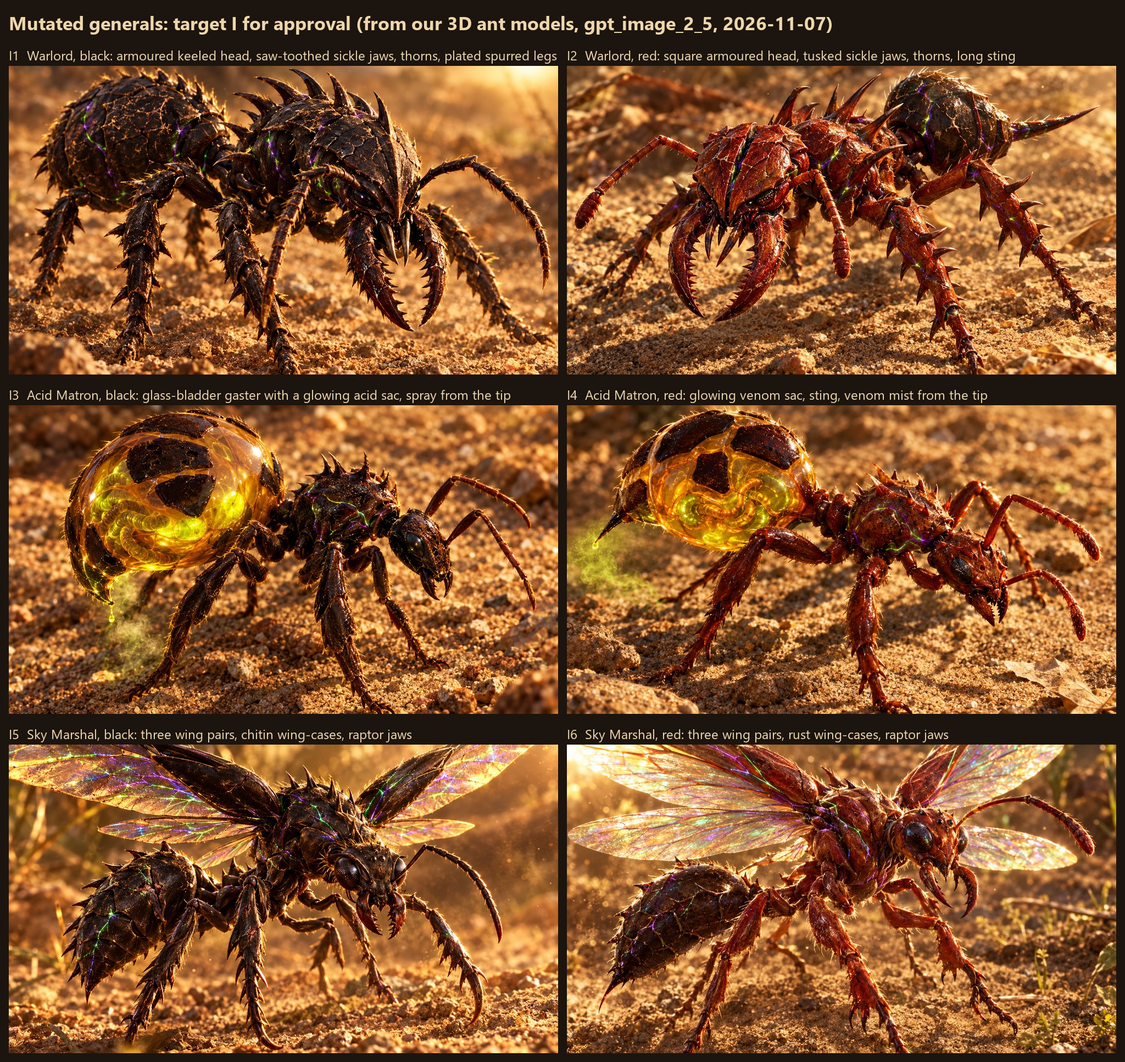
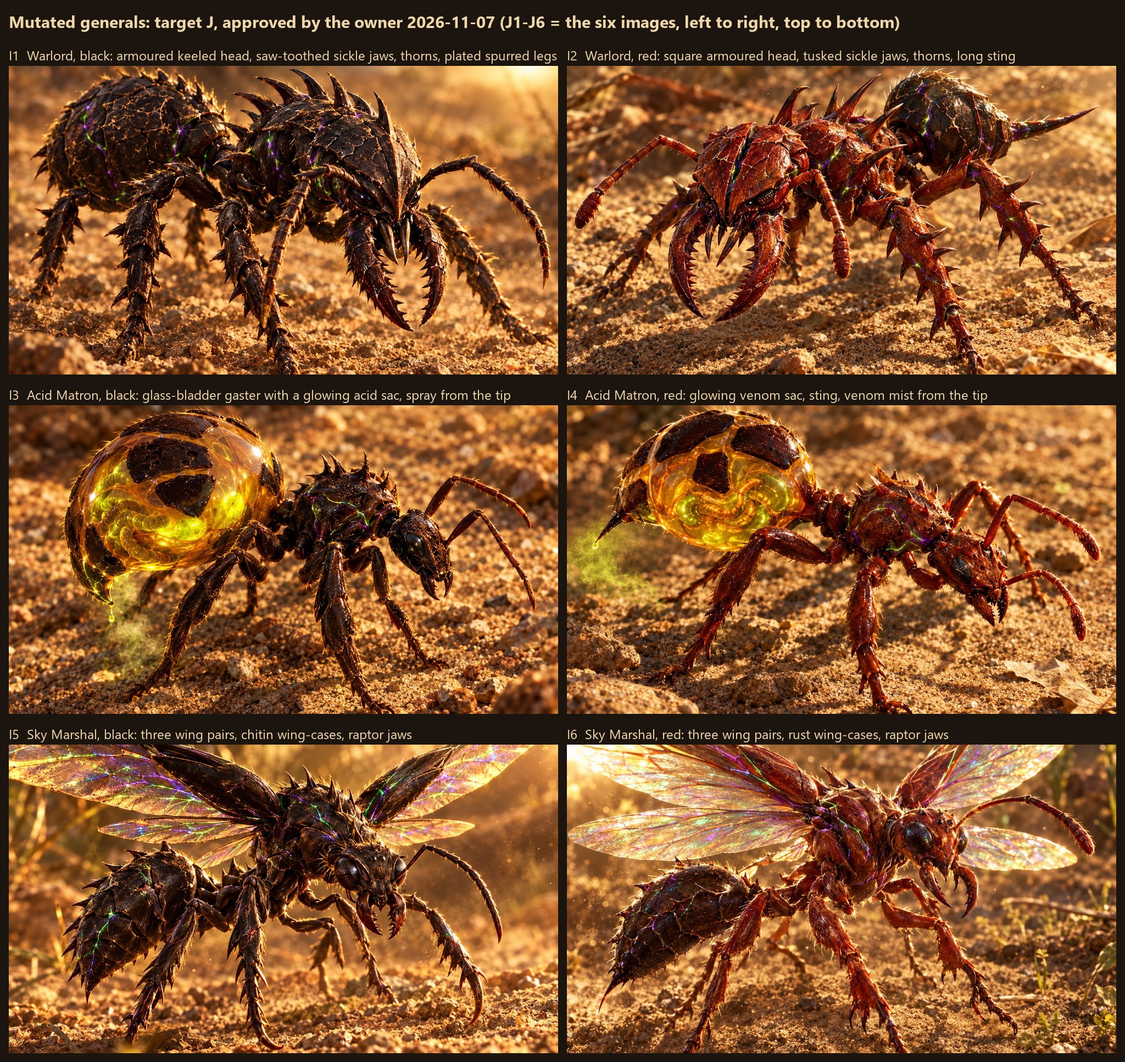
Target J (mutated generals) approved by the owner; renamed from I to J

Changed region(s): [[0.0, 0.0, 0.8125, 0.031]]

diff --git a/docs/art-targets/README.md b/docs/art-targets/README.md
@@ -89,7 +89,9 @@ tip). Generated with Higgsfield `gpt_image_2_5` from the target G prompts (cards
 cropped to 400x490); the red Matron's card was redone once because its first version showed the mist at the head.
 Sheet: `hero-cards-2026-11-06.jpg`.
 
-## I. Mutated generals (awaiting owner approval)
+## J. Mutated generals
+
+Status: **J1-J6 approved by the owner on 2026-11-07** ("Approve all six"). Renamed from I1-I6 (the insignia sheet on the generals branch uses I1-I3).
 
 The owner's brief (2026-11-07): "epic generals generated from the mesh of the 3D [ants] we already have ... more
 monstrous, more epic, stronger looking, even if a little bit alien-ish". Each image was generated with the game's own
@@ -97,4 +99,4 @@ render of that hero (`--ant-capture` g-warlord/g-matron/g-marshal, round 4) as t
 mutated lab strain: armoured heads, serrated tusked jaws, thorns, plated spurred legs, scars, faint violet-green
 mutagen veins in the plate seams; the Matron's gaster a glass bladder with a glowing acid sac (spray only from the
 gaster tip); the Marshal with three wing pairs and chitin wing-cases. `REVIEW-generals.jpg` holds all six
-(`i-general-*.jpg`). Higgsfield `gpt_image_2_5`, quality high, 16:9, one round.
+(`j-general-*.jpg`). Higgsfield `gpt_image_2_5`, quality high, 16:9, one round.
